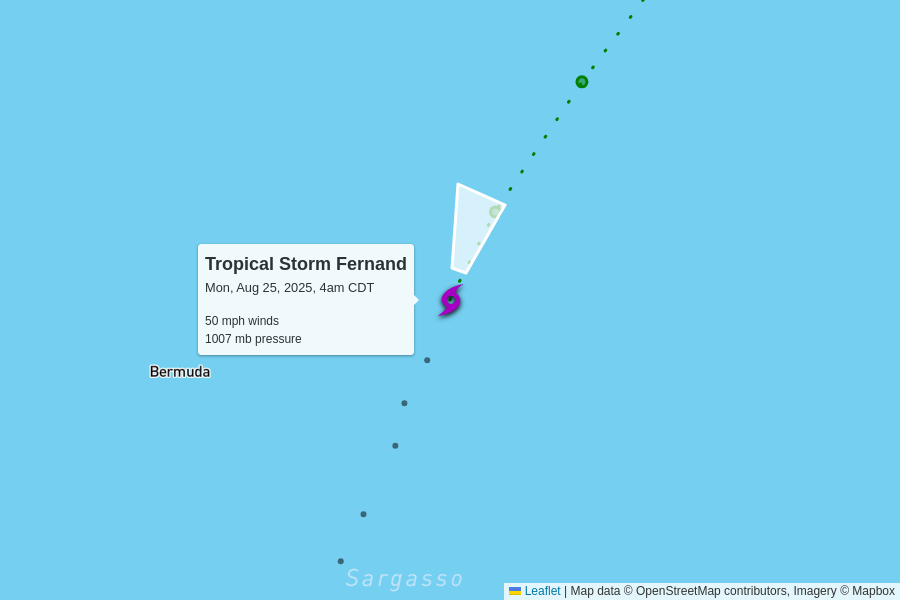
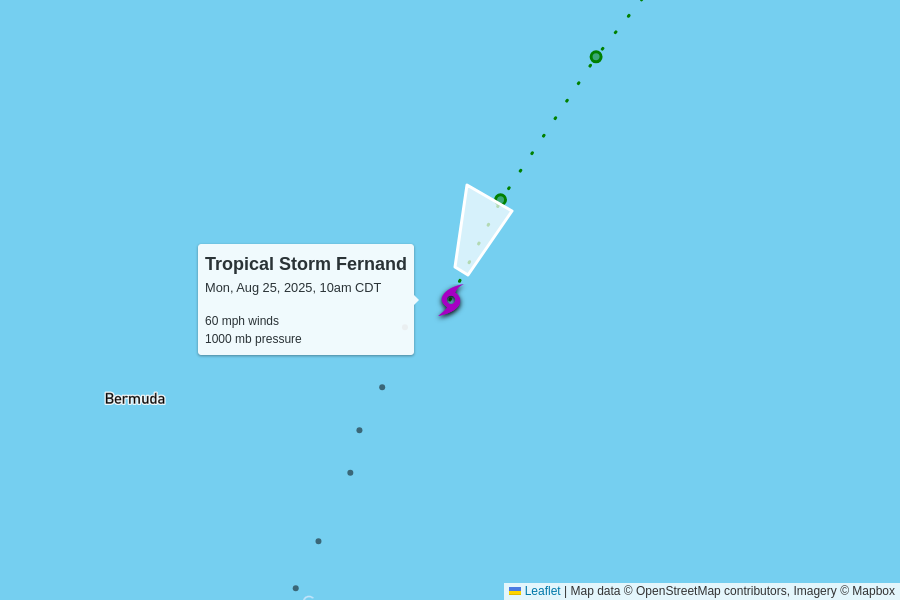
automatic update

diff --git a/docs/index.html b/docs/index.html
@@ -102,7 +102,7 @@
         <td colspan="6" class="storm category-0" >
           <h2>
             Tropical Storm Fernand
-            <p class="updated">last updated <span data-time>2025-08-25T09:00:00.000Z</span></p>
+            <p class="updated">last updated <span data-time>2025-08-25T15:00:00.000Z</span></p>
           </h2>
         </td>
       </tr>
@@ -117,12 +117,12 @@
       </tr>
       <tr>
         <td class="spacer"></td>
-        <td>50 mph<br>0 mph since last update</td>
-        <td>1007 mb<br>0 mb since last update</td>
+        <td>60 mph<br>+10 mph since last update</td>
+        <td>1000 mb<br>-7 mb since last update</td>
         <td>
-          12 mph to the north-northeast
+          13 mph to the north-northeast
           <br/>
-          <span style="display: inline-block; font-size: 1.5em; transform: rotate(20deg);">↑</span>
+          <span style="display: inline-block; font-size: 1.5em; transform: rotate(25deg);">↑</span>
         </td>
         <td><a href="https://raw.githubusercontent.com/mgwalker/atlantic-hurricanes/main/data/csv/AL062025.csv">AL062025.csv</a></td>
         <td><a href="https://www.nhc.noaa.gov/archive/2025/FERNAND.shtml?">NHC advisories</a></td>
